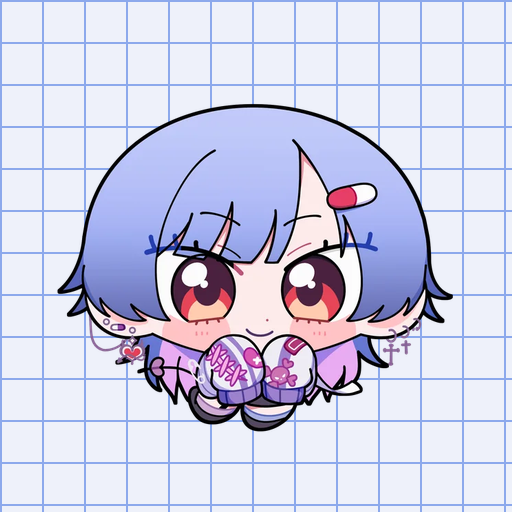
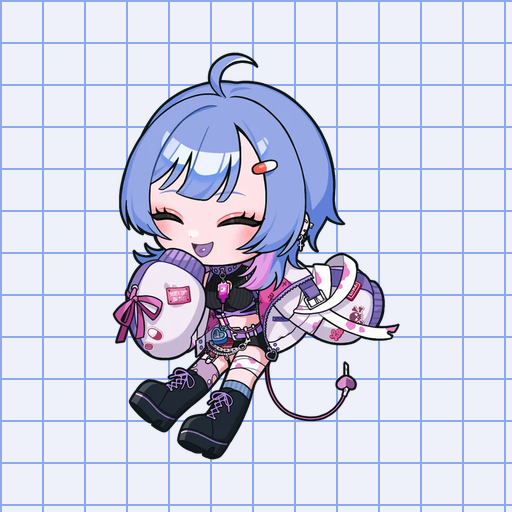
ホーム画面アイコンを全身ミニキャラ(にっこり)に変更
Claude-Session: https://claude.ai/code/session_01Anc9bzo9TVdfka7bvwnMBu

diff --git a/index.html b/index.html
@@ -533,14 +533,14 @@ body.enter .panel.home .hero .stand{animation:artin 1s cubic-bezier(.3,1.35,.5,1
 <div id="lb" role="dialog" aria-label="拡大表示"><div class="lbl">VIEW BOX · 読影中</div><button class="btn line x" id="lbx">閉じる</button><img id="lbi" alt=""><div class="t" id="lbt"></div><div id="lbsec" style="display:none;width:100%;max-width:720px;overflow:auto;max-height:80vh"></div></div>
 <script>
 /* 自動更新: 公開済みの版と違えば、キャッシュを避けて読み直す */
-window.BUILD="1792943504";
+window.BUILD="1792943574";
 (function(){try{fetch('version.json?t='+Date.now(),{cache:'no-store'}).then(function(r){return r.json()}).then(function(j){
  if(j&&j.v&&j.v!==window.BUILD){var k='rk_rl_'+j.v;if(sessionStorage.getItem(k))return;sessionStorage.setItem(k,'1');location.replace(location.pathname+'?v='+j.v+location.hash)}
 }).catch(function(){})}catch(e){}})();
 </script>
-<script src="icons.js?v=1792943504"></script>
-<script src="core.js?v=1792943504"></script>
-<script src="data.js?v=1792943504"></script>
+<script src="icons.js?v=1792943574"></script>
+<script src="core.js?v=1792943574"></script>
+<script src="data.js?v=1792943574"></script>
 <script>
 loadContent().then(function(){
 const S = window.SITE;
